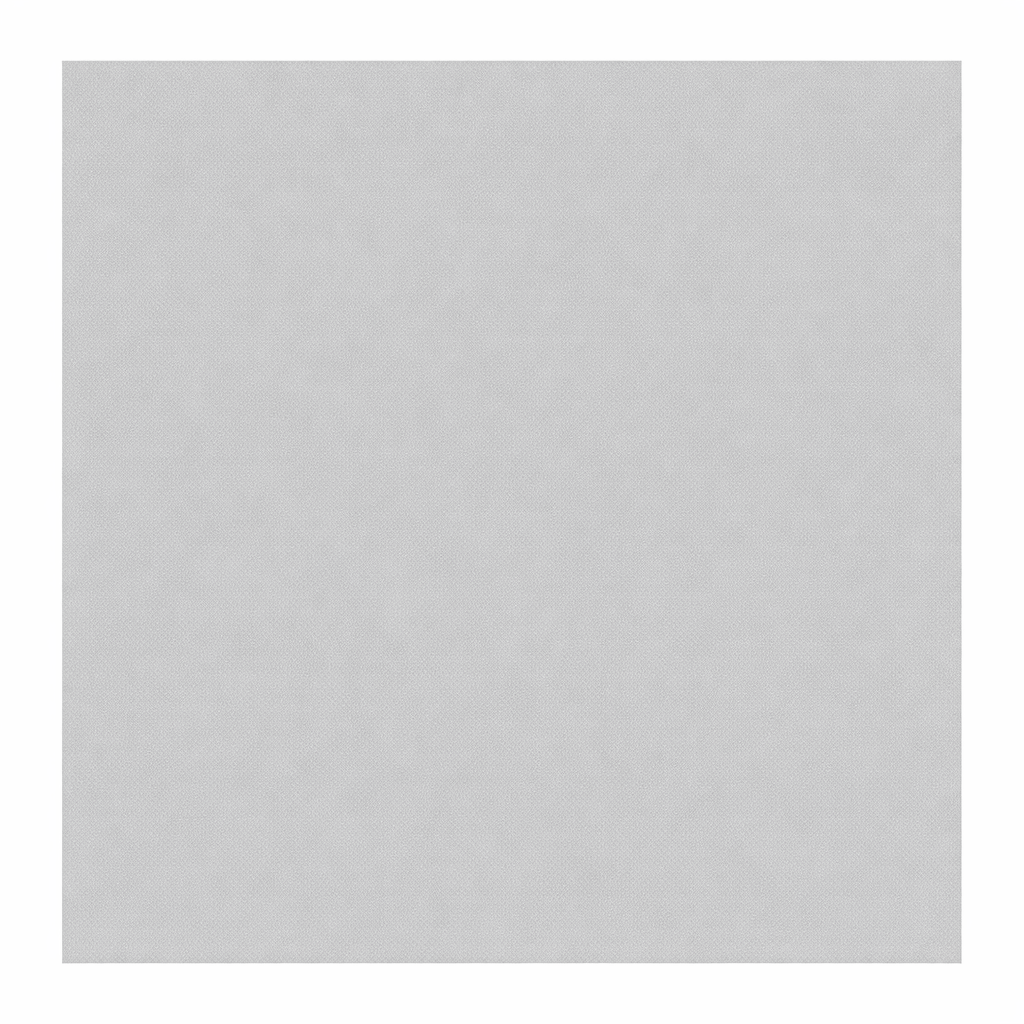
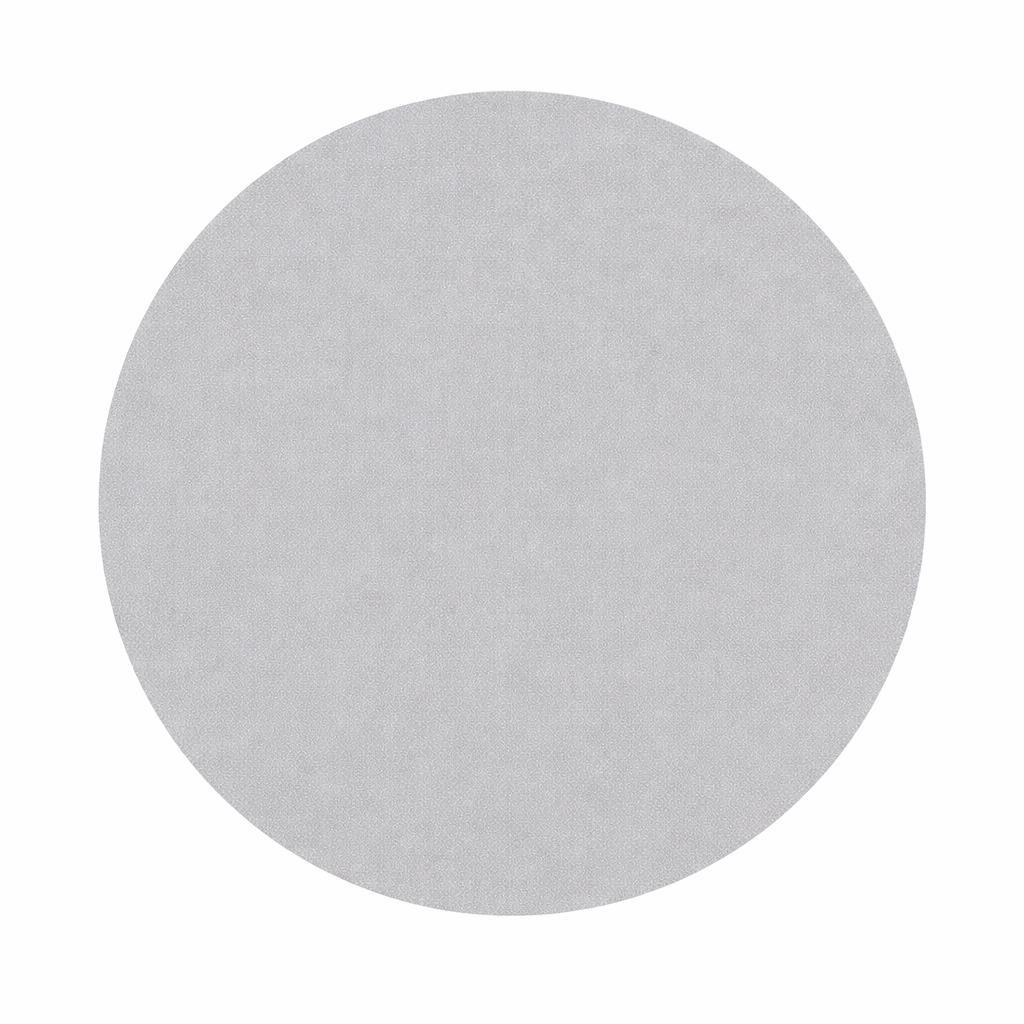
プロフィール編集画面完成

Changed region(s): [[0.0625, 0.0625, 0.9375, 0.9375]]

diff --git a/src/public/css/profiles/form.css b/src/public/css/profiles/form.css
@@ -5,31 +5,47 @@
 }
 
 .form {
-    margin-top: 30px;
+    margin-top: 50px;
 }
 
 #image-upload {
     display: none;
 }
 
-.form__image{
-    text-align: center;
+.form__image {
+    margin: 0 auto;
+    width: 35%;
 }
 
 .form__image-content {
     display: flex;
+    justify-content: left;
+    align-items: center;
+    gap: 30px;
+    margin-bottom: 20px;
 }
 
 .form__image-item {
-    width: 100px;
-    height: 100px;
+    width: 150px;
+    height: 150px;
     border: none;
     border-radius: 50%;
+    object-fit: cover;
+    overflow: hidden;
 }
 
 .form__image-file {
-    margin: auto;
-    background-color: aqua;
+    padding: 5px 20px;
+    color: #FF0000;
+    font-weight: bolder;
+    border: 2px solid #FF0000;
+    border-radius: 3px;
+    cursor: pointer;
+}
+
+.form__image-file:hover {
+    color: #cc0000;
+    border: 2px solid #cc0000;
 }
 
 .form__group {

diff --git a/src/resources/views/profiles/form.blade.php b/src/resources/views/profiles/form.blade.php
@@ -18,7 +18,7 @@
             プロフィール設定
         </h1>
     </div>
-    <form class="form" action="{{ $route }}" method="POST" novalidate>
+    <form class="form" action="{{ $route }}" method="POST" enctype="multipart/form-data" novalidate>
         @csrf
         @if($isUpdate)
             @method('PUT')
@@ -27,12 +27,12 @@
         <div class="form__image">
             <div class="form__image-content">
                 <div class="form__image-preview">
-                    <img class="form__image-item"
+                    <img class="form__image-item" id="preview"
                     src="{{ asset('images/profiles/Gray__profile-image.jpg') }}" alt="No Image">
                 </div>
                 <div class="form__image-upload">
                     <label class="form__image-file" for="image-upload">
-                        画像を選択
+                        画像を選択する
                     </label>
                     <input id="image-upload" type="file" name="image"
                     onchange="previewImage(this)">

diff --git a/src/app/Http/Controllers/ProfileController.php b/src/app/Http/Controllers/ProfileController.php
@@ -18,15 +18,23 @@ class ProfileController extends Controller
     public function store(Request $request)
     {
         $user_id = Auth::id();
+
+        $imagePath = null; // 初期値は”空” //
+
+        if ($request->hasFile('image')) {
+        $file = $request->file('image');
+        $fileName = $file->getClientOriginalName();
+        $file->storeAs('images/profiles', $fileName, 'public');
+        $imagePath = '/storage/images/profiles/' . $fileName;
+    }
+
         Profile::create([
             'user_id'        => $user_id,
-            'image'          => $request->image,
+            'name'           => $request->name,
+            'image'          => $imagePath,
             'postal_code'    => $request->postal_code,
             'address'        => $request->address,
             'building'       => $request->building,
-        ]);
-        User::update([
-            'name'           => $request->name,
         ]);
 
         return redirect()->route('item.index');

diff --git a/src/resources/views/layouts/app.blade.php b/src/resources/views/layouts/app.blade.php
@@ -65,5 +65,6 @@
     <main>
         @yield('content')
     </main>
+    @stack('scripts')
 </body>
 </html>
